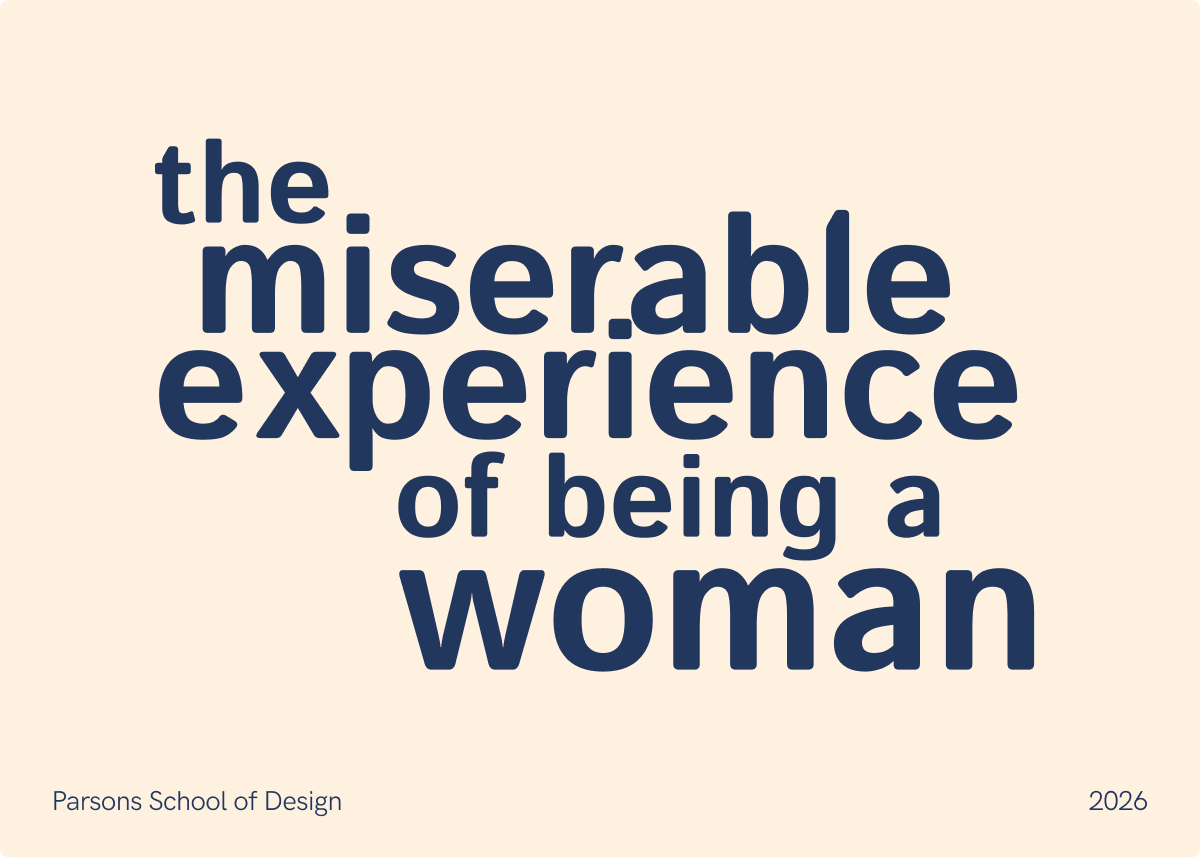
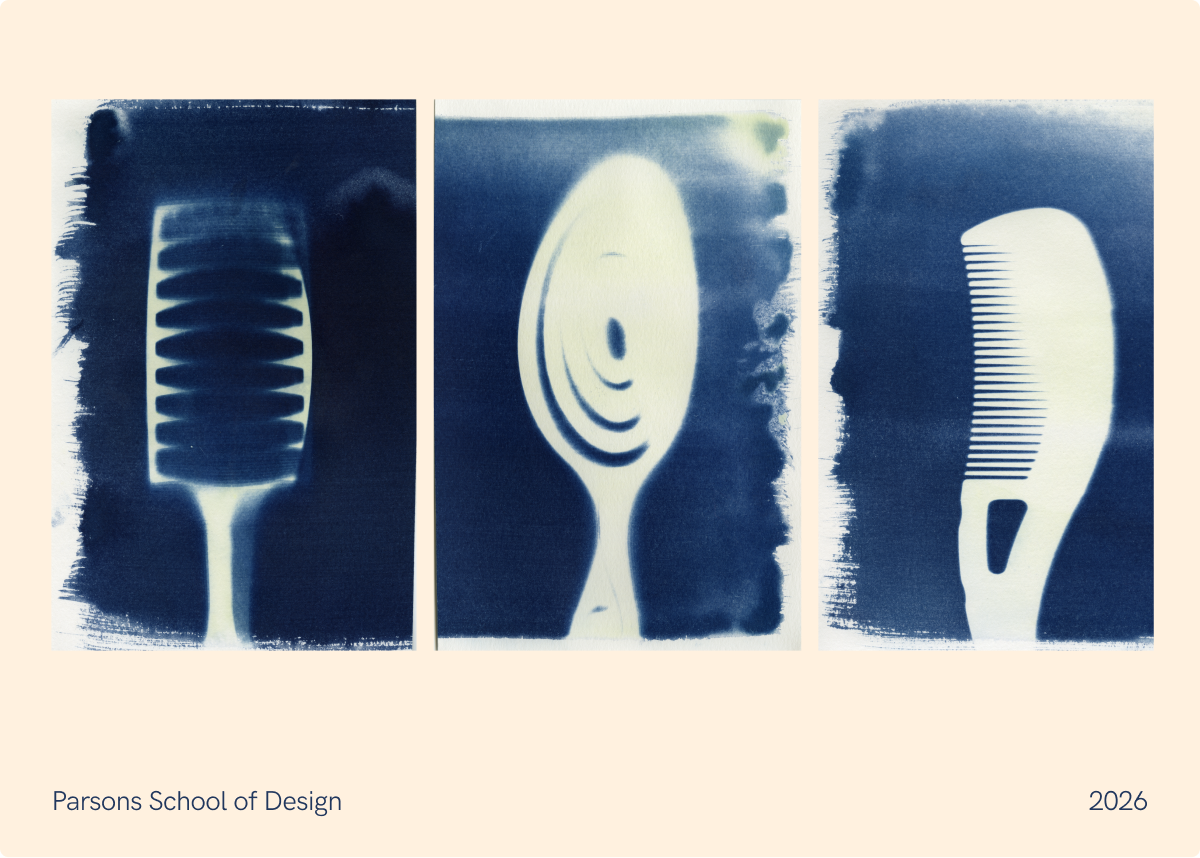
Replace MILF with MyAtlas

diff --git a/app/page.tsx b/app/page.tsx
@@ -179,14 +179,14 @@ export default function Home() {
                 href="/work/tmeobaw"
               />
               <ProjectRow
-                title="man i love finance (milf)"
-                learned="learned the importance of really listening to users"
-                description="a learning platform that helps explain financial terms in a way that helps young girls understand."
+                title="MyAtlas"
+                learned="Learned how thoughtful visual systems can make complex information feel clear, approachable, and engaging."
+                description="a digital wellness platform that helps college students better understand and manage their mental health through personalized insights and passive health data."
                 tags="UI/UX | BRANDING"
-                imageSrc="/images/projects/milf/default.png"
-                hoverImageSrc="/images/projects/milf/hover.png"
+                imageSrc="/images/projects/myatlas/myatlas-default.png"
+                hoverImageSrc="/images/projects/myatlas/myatlas-hover.png"
                 reverse={false}
-                href="/work/milf"
+                href="/work/myatlas"
               />
               <ProjectRow
                 title="Fusion Rebrand"

diff --git a/app/work/myatlas/page.tsx b/app/work/myatlas/page.tsx
@@ -1,0 +1,11 @@
+import type { Metadata } from "next";
+import { PlaceholderCaseStudy } from "@/components/placeholder-case-study";
+
+export const metadata: Metadata = {
+  title: "MyAtlas — Helen Cai",
+  description: "project case study in progress, check back soon!",
+};
+
+export default function MyAtlasPage() {
+  return <PlaceholderCaseStudy />;
+}
